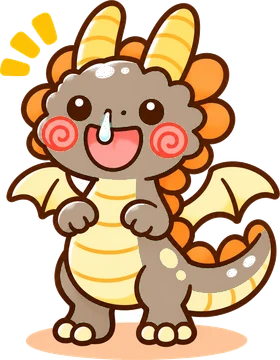
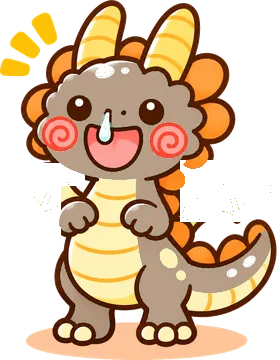
こどもドラゴンの羽をパタパタ動かす (11/15-5)
Claude-Session: https://claude.ai/code/session_01YBiCLs4pTNeStadh86Q8Uo

Changed region(s): [[0.6286, 0.4278, 1.0, 0.6417], [0.0, 0.4278, 0.3143, 0.6722]]

diff --git a/index.html b/index.html
@@ -241,6 +241,12 @@ details.staff-d .staff-row { background: transparent; }
 .roam .tag { font-size: 10px; font-weight: 700; background: rgba(255,255,255,.85); color: #333; border-radius: 99px; padding: 1px 7px; white-space: nowrap; margin-top: -4px; }
 .roam.me .tag { background: var(--accent); color: #fff; }
 @keyframes roambob { 0%,100% { transform: translate(-50%, -85%); } 50% { transform: translate(-50%, -92%); } }
+.kid-wing { transform-box: view-box; animation: kidFlap 1.3s ease-in-out infinite; }
+.kid-wl { transform-origin: 68px 97px; }
+.kid-wr { transform-origin: 125px 97px; animation-name: kidFlapR; }
+@keyframes kidFlap { 0%, 50%, 100% { transform: rotate(0deg); } 20% { transform: rotate(18deg); } 35% { transform: rotate(-6deg); } }
+@keyframes kidFlapR { 0%, 50%, 100% { transform: rotate(0deg); } 20% { transform: rotate(-18deg); } 35% { transform: rotate(6deg); } }
+@media (prefers-reduced-motion: reduce) { .kid-wing { animation: none; } }
 /* the child dragon on the field: hop, squash on landing, then a silly wiggle */
 .roam.st2 .roam-d .dragon-body { transform-box: view-box; transform-origin: 100px 196px; animation: kidHop 2.6s cubic-bezier(.3,.7,.4,1) infinite; animation-delay: var(--delay, 0s); }
 @keyframes kidHop {
@@ -796,7 +802,9 @@ body.has-live .toast { bottom: calc(132px + env(safe-area-inset-bottom, 0px)); }
       const known = ["3fa36b", "d9642a", "3b7dd8", "c4479a", "7b5cd6", "d4a417", "2aa6a6", "c8443c", "5f7d2e", "8a6a4f", "4fb0e0", "e87a95", "8dbf3a", "4d5560", "233a73"];
       const hex = String(color || "").replace("#", "").toLowerCase();
       const src = known.includes(hex) ? `img/kid-${hex}.webp` : "img/kid-base.webp";
-      return `<svg class="${cls}" viewBox="0 0 200 200" role="img" aria-label="${STAGES[stage]}のドラゴン"><g class="dragon-body"><image href="${src}" x="22" y="0" width="156" height="200" preserveAspectRatio="xMidYMid meet"/></g></svg>`;
+      const im = h => `<image href="${h}" x="22" y="0" width="156" height="200" preserveAspectRatio="xMidYMid meet"/>`;
+      // the wings are separate pictures behind the body so they can flap
+      return `<svg class="${cls}" viewBox="0 0 200 200" role="img" aria-label="${STAGES[stage]}のドラゴン"><g class="dragon-body"><g class="kid-wing kid-wl">${im("img/wingL.webp")}</g><g class="kid-wing kid-wr">${im("img/wingR.webp")}</g>${im(src)}</g></svg>`;
     } else {
       g = `<path d="M70 112 q-60 -40 -58 -88 q16 30 34 30 q-4 -18 6 -30 q10 34 40 56z M130 112 q60 -40 58 -88 q-16 30 -34 30 q4 -18 -6 -30 q-10 34 -40 56z" fill="${dark}"/>
         <path d="M132 162 q48 10 52 -30 q4 10 -2 22 l10 -2 q-16 34 -60 22" fill="${color}"/>
@@ -1159,7 +1167,7 @@ body.has-live .toast { bottom: calc(132px + env(safe-area-inset-bottom, 0px)); }
       ${genreCard}
       <section class="card"><h2>わたしの設定</h2>
         ${authUser ? `<p class="sub">ログイン中のアカウント：<b style="overflow-wrap:anywhere">${esc(authUser.email || "")}</b></p>` : ""}
-        <p class="sub">バージョン：11/15-4</p>
+        <p class="sub">バージョン：11/15-5</p>
         <label class="check-line"><input type="checkbox" id="set-bgm" ${bgmOn() ? "checked" : ""}> 原っぱでBGMを流す</label>
         <label class="check-line"><input type="checkbox" id="set-sfx" ${sfxOn() ? "checked" : ""}> 100点達成・進化の効果音を鳴らす</label>
         <label class="field">名前<input type="text" id="set-name" value="${esc(S.name)}"></label>
